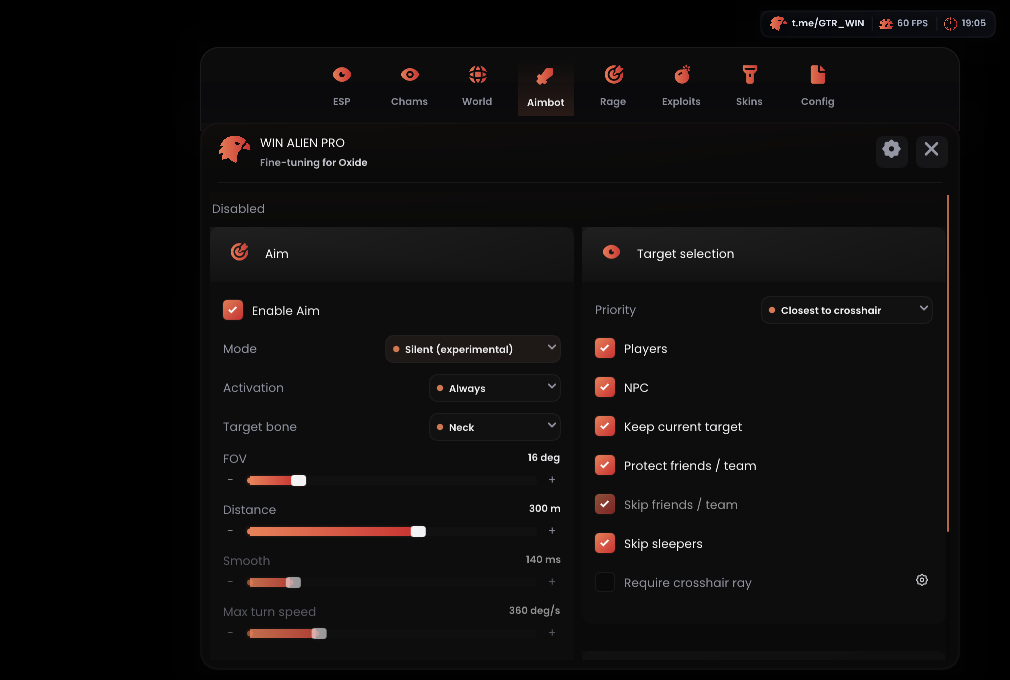
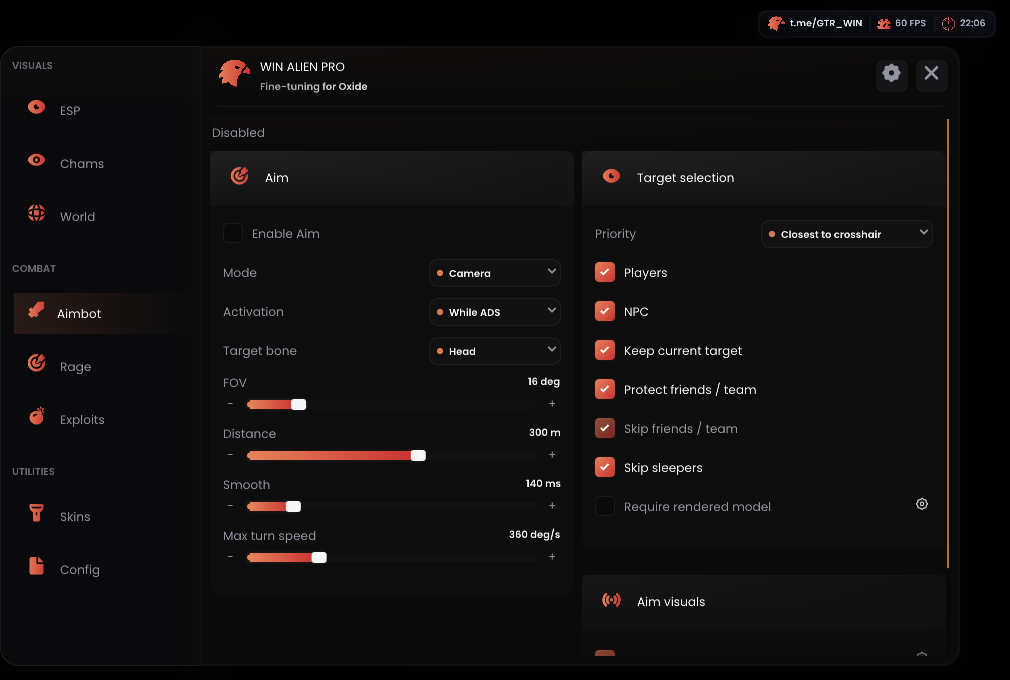
Document 0.2.16 external rendering visibility and remove module deployment

diff --git a/README.md b/README.md
@@ -1,62 +1,34 @@
 # WIN ALIEN — Oxide External
 
-Лоадер для ПК и Android external под Oxide 1.13.11924 x86_64 в MSI App Player/BlueStacks.
+**0.2.16 · Oxide 1.13.11924 x86_64 · MSI App Player / BlueStacks**
 
-**[Скачать OxideLoader.exe 0.2.15](https://github.com/asiriswin-bit/WINALIEN-Oxide-External/releases/download/oxide-11924-v0.2.15/OxideLoader.exe)** · [Релиз](https://github.com/asiriswin-bit/WINALIEN-Oxide-External/releases/tag/oxide-11924-v0.2.15)
+[Скачать лоадер](https://github.com/asiriswin-bit/WINALIEN-Oxide-External/releases/latest/download/OxideLoader.exe) · [Релиз 0.2.16](https://github.com/asiriswin-bit/WINALIEN-Oxide-External/releases/tag/oxide-11924-v0.2.16)
 
-## Изменения 0.2.15
+## Версия 0.2.16
 
-У тестера 0.2.14 запускался external, но `dlopen` возвращал ошибку: внутренний модуль не загружался. В логах есть `uid=0`, поэтому проблема не объясняется отсутствием прав root.
+Возврат к external: лоадер больше не скачивает и не отправляет библиотеку или injector, payload не загружает внутренний модуль.
 
-Исправлено сохранение `dlerror` до завершения потока. Удалён fallback обычного `dlopen`, который терял выбранный контекст загрузки игры; добавлен поиск `__loader_dlopen` в проверенном ELF linker64. Лоадер пишет версию и путь runtime, проверяет комплектность до остановки external. Статус модуля записывается и без соединения.
+**Render visibility** читает Unity `Renderer.isVisible` тела и головы игрока/NPC. Это приблизительный сигнал рендеринга: он может учитывать другие камеры и тени, поэтому не доказывает отсутствие стены или возможность попадания. Цвет настраивается, неизвестные данные не подсвечиваются. В Aim есть отдельный фильтр **Require rendered model**. Обе опции выключены по умолчанию.
 
-**Точная причина первоначального отказа неизвестна: 0.2.14 потеряла её текст. Успех 0.2.15 в игре пока не подтверждён.** После полного перезапуска Oxide и обновления EXE/runtime нужна новая попытка загрузки и оба журнала.
+**Надёжного external Silent пока нет.** Режим `Silent (unavailable)` не делает записей Aim и не загружает модуль. Для обычного наведения используй **Camera**. Прежний внешний цикл записи направления удалён: он не был синхронизирован с выстрелом. Изменение recoil + TPS по примеру другой игры не подтверждено как работающий вариант в Oxide.
 
-## Внутренний модуль 0.2.14
+В 0.2.15 тестер подтвердил работу внутреннего модуля, после чего сообщил о бане. Причина по журналам не установлена. Отсутствие `.so` в 0.2.16 не является антибаном.
 
-- Внутренний модуль для Silent: направление меняется непосредственно во время игровой функции выстрела и восстанавливается после неё. Сохраняются FOV, дистанция, выбор кости, фильтры друзей/NPC, активация и фиксация цели.
-- Visible Check через физику игры до головы и груди. При Require line of sight Silent дополнительно проверяет выбранную кость в момент выстрела.
-- Проверка версии игры, свежести настроек и текущей цели. Установка двух перехватов с остановкой потоков, проверкой исходных и подготовленных инструкций и откатом при ошибке записи.
-- Модуль загружается по требованию. Меню, ESP, Camera Aim, AutoFarm и обычный Auto Melee сохраняют прежнюю схему.
+![Aim 0.2.16 — синтетический рендер](aim.png)
 
-**Загрузка модуля в тестах 0.2.14 завершилась отказом; результат 0.2.15 ещё не проверен.** Счётчик подмен не является счётчиком попаданий. Игровой разброс сохраняется; обход античита не заявляется.
+## Обновление
 
-## Сохранено из 0.2.13
+1. Останови external, полностью закрой игру и старый лоадер. Ранее загруженный модуль остаётся до завершения процесса Oxide.
+2. Замени EXE на 0.2.16 и нажми «Скачать файлы». Дождись runtime `oxide-11924-v0.2.16`. Обновление runtime не заменяет сам EXE.
+3. Запусти игру и external. Режим Aim — **Camera**. Если CFG требует старый physics line of sight, меню покажет причину блокировки и кнопку очистки этого требования.
+4. Для проверки приблизительной видимости включи ESP → Render visibility и сравни цвет цели на открытом месте и за стеной. Сигнал может оказаться непригодным для wallcheck в данной сцене.
 
-- ESP: отдельные цвета имени, бокса, заливки, расстояния, линий, оружия и экипировки; толщина бокса и HP-бара. Имя и бокс белые по умолчанию, оружие — иконкой, HP-текст выключен.
-- Линии мира отдельно для каждой категории: включение, начало, цвет и толщина. Переключатель линий игроков больше не включает линии ресурсов.
-- Резервное чтение загруженной экипировки модели, вертикальное расположение и цвет иконок. Неподтверждённые значения HP других игроков скрыты.
-- AutoFarm: чтение крестиков дерева/руды и движение к текущей отметке, сохранение и восстановление существующих значений движения. При отсутствии отметки используется начальная точка удара. Причина отказа инструмента отображается отдельно.
-- Исправлен сброс Aim бездействующим AutoFarm. Отдельная активация Silent по умолчанию Always; режим обычного Aim сохраняется независимо.
-- Auto Melee: выбор головы, шеи, груди или таза. Fast Reload: клиентский множитель до 50×.
+## Проверка и ограничения
 
-Внешний цикл Silent из 0.2.13 отключён: новая реализация использует callback выстрела внутри процесса игры.
+17/17 локальных CTest, сверка native getter с `libunity.so` 11924 x86_64, проверка menu smoke при 100%/150%, проверка ELF и отсутствия загрузчика internal в payload. В PC-пакете нет `liboxide-runtime.so` и `oxide-injector`.
 
-![Silent 0.2.14 — синтетический рендер без подключения к игре](silent.png)
+**0.2.16 не проверена на устройстве.** Эти проверки не подтверждают точность окклюзии, игровые попадания или отсутствие банов.
 
-![Настройки ESP — синтетический рендер](menu.png)
+AutoFarm движется прямо без поиска пути вокруг стен. Auto Melee использует обычную атаку. Silent Farm/Melee без анимаций, свободная камера, автостройка и skip animations не реализованы. Клиентская скорость Reload не гарантирует мгновенную перезарядку на сервере.
 
-![AutoFarm — синтетический рендер меню](autofarm.png)
-
-## Обновление и запуск
-
-1. Остановить external, полностью закрыть Oxide и старый лоадер, заменить EXE. «Скачать файлы» обновляет runtime, не сам EXE.
-2. Скачать runtime `oxide-11924-v0.2.15`, затем запустить игру и «Старт external». **EXE и runtime обновляются вместе:** старый EXE не понимает расширенный список файлов. Для замены загруженного модуля нужен перезапуск игры.
-3. ESP → Player Core → **Clean ESP preset** сбрасывает только оформление. Шестерёнки открывают настройки элементов и категорий. Старые CFG автоматически отключают HP-текст, подписи оружия, category/net ID и линии мира.
-4. AutoFarm: взять подходящий топор/кирку, выбрать ресурсы и включить функцию, закрыть меню. Если движения нет, статус показывает ожидание инструмента, цели, управления или свежей сцены.
-5. Auto Melee: Rage → Auto Melee → инструмент ближнего боя → кость, дальность/FOV → включить и закрыть меню.
-6. Auto Heal: лекарства в hotbar; Exploits → Calibrate hotbar + use → центры первого/последнего слота и Use. После изменения разрешения повторить калибровку. Учитываются игровые откаты предмета.
-
-Меню скрывается крестиком/Escape, открывается watermark/Insert. F6 переключает ESP. Именованные CFG: Config → Create / Save / Load. Friends / Team исключает друзей из Aim и Auto Melee; блокировка дружественного огня экспериментальная.
-
-## Проверки и ограничения
-
-17/17 наборов CTest; smoke интерфейса при 100% и 150%. Машинный код загрузки проверен в Unicorn на 27 сценариях. Скриншоты показывают синтетический рендер. **Изменения 0.2.15 ещё не проверены в игре: эмулятор не подключён.**
-
-Для первого теста: Aim → Silent (internal) → Always → включить Aim → закрыть меню. Проверить цель в круге и фактический урон. Visible Check проверить на открытой цели и той же цели за стеной. Сохранить журнал кнопкой лоадера: `internal_hooks=committed count=2` и `hooks=3` подтверждают установку, `shots`/`redirected` — вызовы и подмены, но не урон.
-
-Silent Farm/Melee без анимаций, skip animations, свободная камера и автостройка не реализованы. Visible Check ограничен 128 ближайшими целями в пределах дистанции Aim. Auto Melee использует обычную атаку, AutoFarm движется прямо и не строит маршрут в обход стен. Множитель Reload не гарантирует мгновенную перезарядку на сервере.
-
-## Компоненты
-
-Репозиторий содержит описание и бинарники. Исходники соответствующей сборки находятся в отдельном архиве у владельца проекта. Ресурсы и адаптер поверхности предоставленного Overlay — GPLv3, Dear ImGui — MIT, Dobby — Apache-2.0. См. [THIRD-PARTY-NOTICES.txt](THIRD-PARTY-NOTICES.txt); Platform Tools сопровождаются NOTICE.txt.
+Репозиторий содержит описание и бинарники. Исходники соответствующей сборки находятся в отдельном архиве у владельца проекта. Ресурсы и адаптер поверхности исходного Overlay — GPLv3, Dear ImGui — MIT. Исторические исходники internal используют Dobby — Apache-2.0. См. [THIRD-PARTY-NOTICES.txt](THIRD-PARTY-NOTICES.txt).
